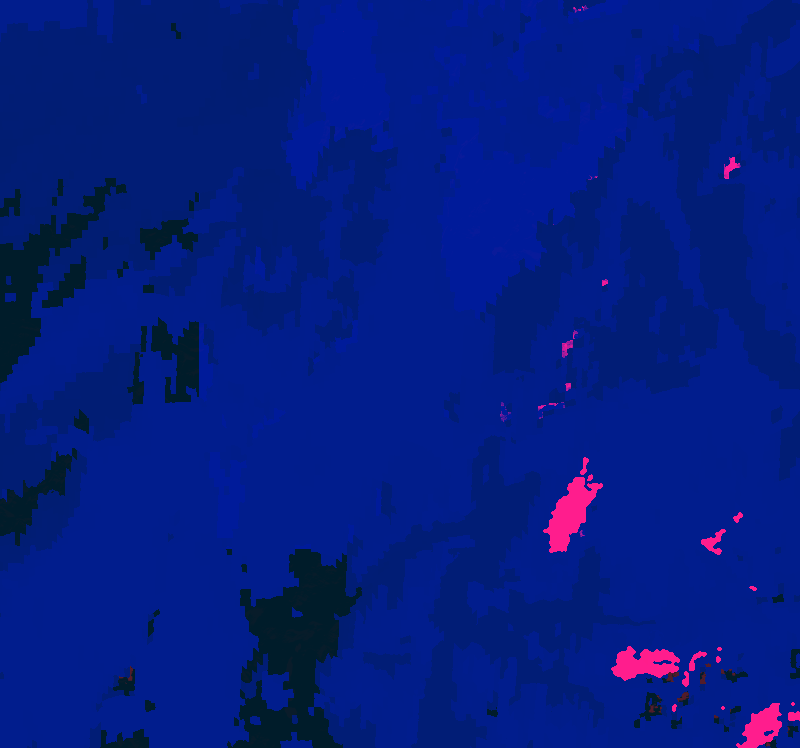
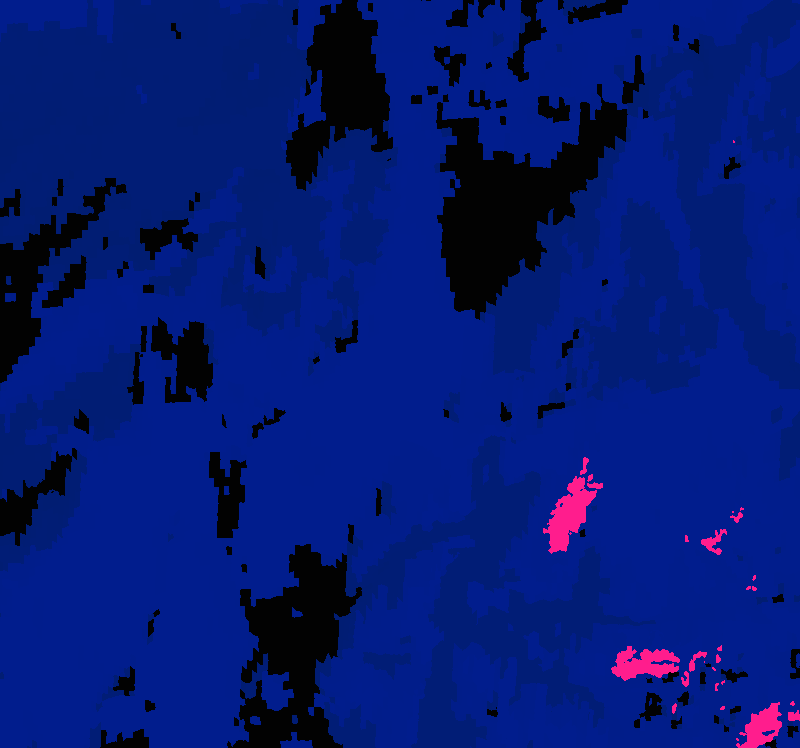
LIS : ne lire que les fractions enneigées (pas les QCFLAGS), requêtes incrémentales ; composite reconstruit
Les fichiers de qualité LIS_S2-SNOW-FSC-QCFLAGS_* étaient lus comme des fractions : composite
reconstruit à partir des images Meteosat du 31/10 et du 01/11, les produits LIS seront refusionnés
au prochain passage. Les requêtes ne portent plus que sur les jours depuis le dernier produit traité.

Claude-Session: https://claude.ai/code/session_01MEfaePDSG11DTNMjdjz9TR

diff --git a/pipeline.py b/pipeline.py
@@ -307,6 +307,10 @@ def run_lis(jours=10, intervalle_h=6, forcer=False):
     lo, la = wtransform(m2n.CRS, "EPSG:4326", [m2n.AOI[0], m2n.AOI[2], m2n.AOI[0], m2n.AOI[2]], [m2n.AOI[1], m2n.AOI[1], m2n.AOI[3], m2n.AOI[3]])
     bbox = [round(min(lo), 4), round(min(la), 4), round(max(lo), 4), round(max(la), 4)]
     debut = maintenant - dt.timedelta(days=jours)
+    dates = [dt.datetime.strptime(m.group(1), "%Y%m%d").replace(tzinfo=dt.timezone.utc)
+             for m in (re.search(r"_(\d{8})T\d{6}_", n) for n in deja) if m]
+    if dates and not forcer:   # seulement depuis le dernier produit traité (un jour de marge : mises en ligne tardives)
+        debut = max(debut, max(dates) - dt.timedelta(days=1))
     client = py_hydroweb.Client("https://hydroweb.next.theia-land.fr/api")
     panier = py_hydroweb.DownloadBasket(f"mer2nuages_lis_{maintenant:%Y%m%dT%H%M}")
     panier.add_collection(collection_id="LIS_FSC_PREOP", bbox=bbox,
@@ -321,9 +325,8 @@ def run_lis(jours=10, intervalle_h=6, forcer=False):
             print(f"LIS : archive {os.path.getsize(zp) // 1_000_000} Mo, {len(noms)} fichiers ; exemples :", noms[:12])
             z.extractall(tmp)
         tifs = [os.path.join(tmp, n) for n in noms if n.lower().endswith((".tif", ".tiff"))]
-        # fraction « au sol » (corrigée de la forêt) si elle existe, sinon « vue du dessus »
-        fsc = [t for t in tifs if "FSCOG" in os.path.basename(t).upper()] or [t for t in tifs if "FSCTOC" in os.path.basename(t).upper()] \
-              or [t for t in tifs if "FSC" in os.path.basename(t).upper()]
+        # fraction enneigée : LIS_S2-SNOW-FSC_T<tuile>_<date>_<version>.tif (les -QCFLAGS sont des indicateurs de qualité)
+        fsc = [t for t in tifs if re.match(r"LIS_S2-SNOW-FSC_T\w+_\d{8}T\d{6}_", os.path.basename(t))]
         print(f"LIS : {len(tifs)} GeoTIFF, {len(fsc)} de fraction enneigée")
         produits = []
         for t in fsc:
